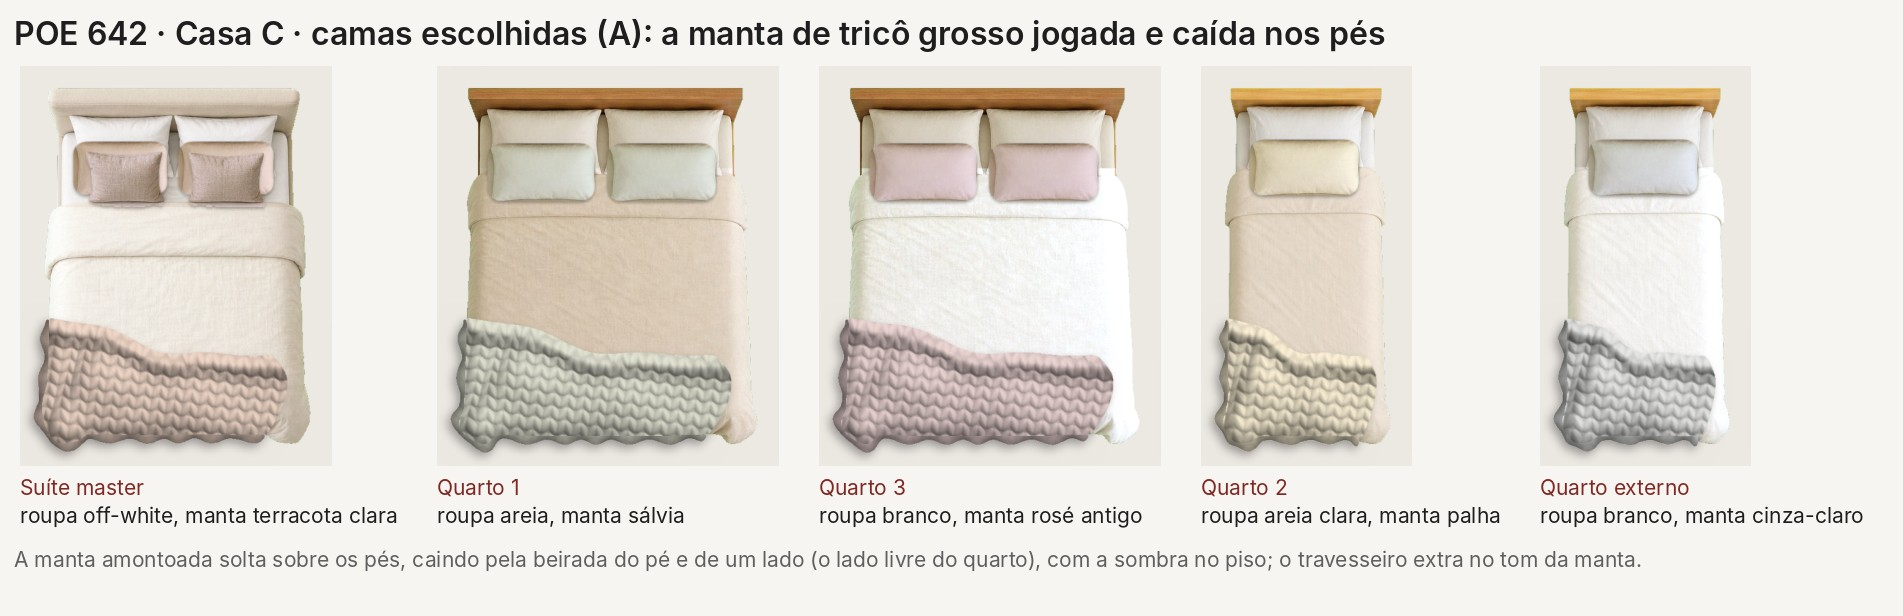
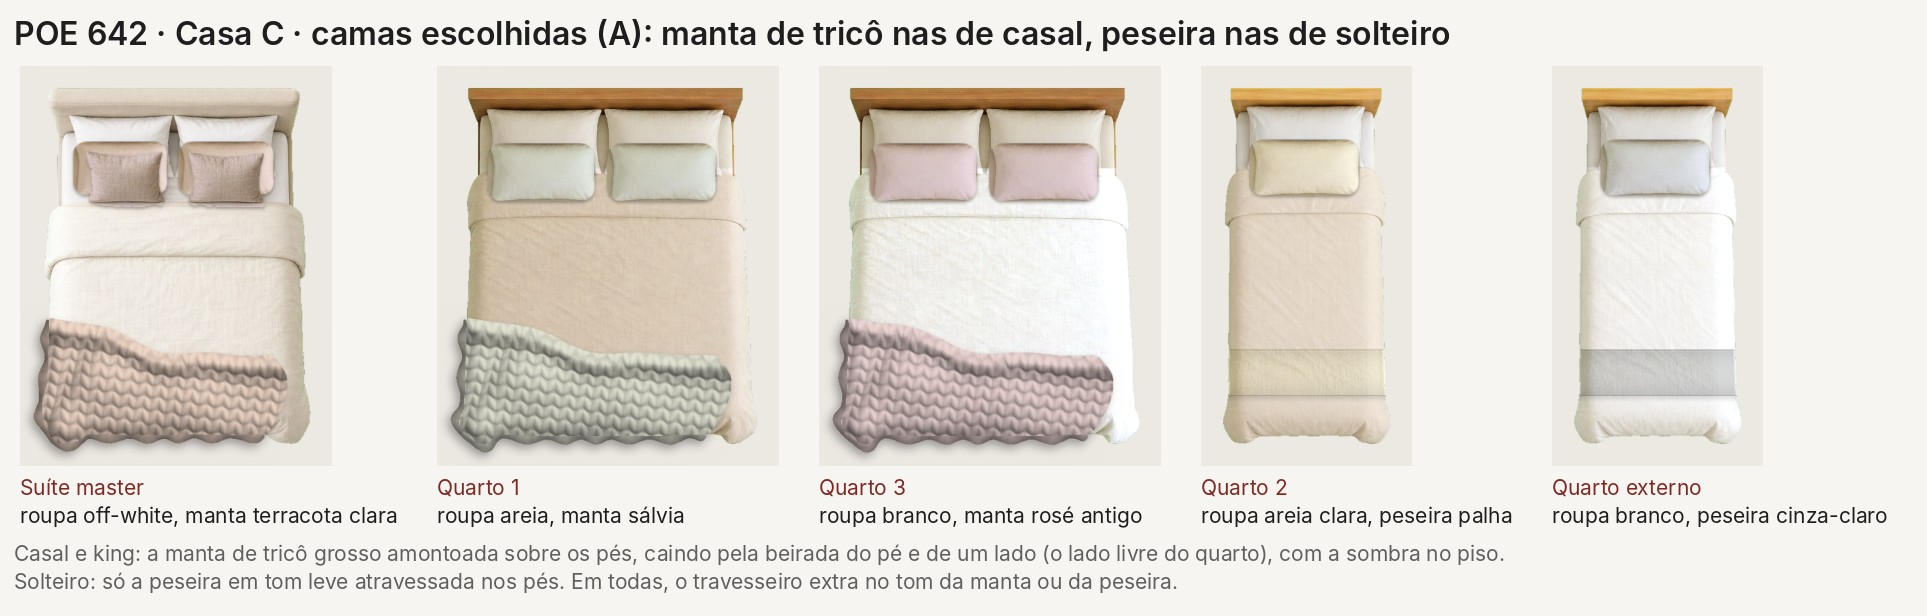
Casa C: a manta de tricô só nas camas de casal; nas de solteiro, só a peseira
- king e casal com a manta caída; solteiro com a peseira leve (palha, cinza-claro) e o travesseiro extra no mesmo tom
- handoff

Claude-Session: https://claude.ai/code/session_01Mm19WX3KoLN1nXMDF5Ay3F

diff --git a/projetos/POE642_CasaA/scripts/camas_escolhidas_casac_1311.py b/projetos/POE642_CasaA/scripts/camas_escolhidas_casac_1311.py
@@ -1,4 +1,6 @@
-"""A prancha das camas escolhidas (A) da Casa C com a manta de tricô grosso jogada e caída nos pés (13/11)."""
+"""A prancha das camas escolhidas (A) da Casa C (13/11): a manta de tricô grosso jogada e caída nos pés só nas camas de
+casal e na king; nas de solteiro, só a peseira leve ("Só use as mantas de tricô nas camas de casal. Nas camas de solteiro
+só pezeira"). Todas voltam com a mesma margem `pad` nos 4 lados (o centro não muda), para a prancha sair na mesma escala."""
 import sys
 sys.path.insert(0, str(__import__('pathlib').Path(__file__).parent))
 import camas_casac_1311 as C, manta_caida_casac_1311 as MC
@@ -10,24 +12,33 @@ ALT = 400
 ims = []
 for nome, tipo, roupa, opcoes in C.QUARTOS:
     enf = opcoes[0][0]
-    P = C.cama(tipo, roupa, enf, "nada")
-    Q, pad = MC.manta_caida(P, enf, "esq")
-    cv2.imwrite(str(C.TMP) + f'/caida_{tipo}_{roupa}_{enf}_pad{pad}.png'.replace(' ', '-'), Q.astype(np.uint8))
-    ims.append((C.foto(Q, int(ALT * Q.shape[0] / P.shape[0] + 0.5) if False else ALT, fundo=(236, 232, 226)), nome.split(' · ')[0], f'roupa {roupa}, manta {enf}'))
+    if tipo == "solteiro":
+        P = C.cama(tipo, roupa, enf, "peseira")
+        pad = int(round(MC.PAD * P.shape[0]))
+        Q = np.pad(P, ((pad, pad), (pad, pad), (0, 0)))
+        cap = f'roupa {roupa}, peseira {enf}'
+    else:
+        P = C.cama(tipo, roupa, enf, "nada")
+        Q, pad = MC.manta_caida(P, enf, "esq")
+        cap = f'roupa {roupa}, manta {enf}'
+    cv2.imwrite(str(C.TMP) + f'/escolhida_{tipo}_{roupa}_{enf}_pad{pad}.png'.replace(' ', '-'), Q.astype(np.uint8))
+    ims.append((C.foto(Q, ALT, fundo=(236, 232, 226)), nome.split(' · ')[0], cap))
 d0 = ImageDraw.Draw(Image.new('RGB', (10, 10)))
 larg = [max(im.width, int(d0.textlength(c, font=f_cap))) + 40 for im, _, c in ims]
 W = max(sum(larg) + 20, 1500)
 folha = Image.new('RGB', (W, 66 + ALT + 150), (247, 245, 242))
 d = ImageDraw.Draw(folha)
-d.text((14, 14), 'POE 642 · Casa C · camas escolhidas (A): a manta de tricô grosso jogada e caída nos pés', font=f_tit, fill=(30, 30, 30))
+d.text((14, 14), 'POE 642 · Casa C · camas escolhidas (A): manta de tricô nas de casal, peseira nas de solteiro', font=f_tit, fill=(30, 30, 30))
 x = 20
 for (im, q, cap), lg in zip(ims, larg):
     folha.paste(im, (x, 66))
     d.text((x, 66 + ALT + 8), q, font=f_cap, fill=(128, 40, 36))
     d.text((x, 66 + ALT + 36), cap, font=f_cap, fill=(30, 30, 30))
     x += lg
-d.text((14, 66 + ALT + 80), 'A manta amontoada solta sobre os pés, caindo pela beirada do pé e de um lado (o lado livre do quarto), '
-       'com a sombra no piso; o travesseiro extra no tom da manta.', font=f_cap, fill=(95, 95, 95))
+for j, l in enumerate(['Casal e king: a manta de tricô grosso amontoada sobre os pés, caindo pela beirada do pé e de um lado (o lado livre '
+                       'do quarto), com a sombra no piso.', 'Solteiro: só a peseira em tom leve atravessada nos pés. Em todas, o '
+                       'travesseiro extra no tom da manta ou da peseira.']):
+    d.text((14, 66 + ALT + 74 + 28 * j), l, font=f_cap, fill=(95, 95, 95))
 arq = C.OUT / 'POE642_CasaC_PH_Terreo_1311_camas_escolhidas.jpg'
 folha.save(arq, quality=90)
 print(arq, folha.size)

diff --git a/projetos/POE642_HANDOFF_SESSAO_LOCAL.md b/projetos/POE642_HANDOFF_SESSAO_LOCAL.md
@@ -4393,4 +4393,4 @@ Depois (12/11, Casa A, Subsolo: "NA HORA DE GERAR O 4K, PRECISO QUE TRAGA REALIS
 
 Depois (12/11, Casa A, Subsolo, recortes do 12K B: a linha clara sob a parede do hall; "OS X PRECISAM SER EM CINZA COM TRAÇOS MAIS FINOS E DELICADOS. ALÉM DISSO, LIMPE RESÍDUOS DE SUJEIRA"; "DEIXAR O CONTORNO EM VOLTA DOS VASOS PERFEITOS."; "DEIXAR AS PAREDES RETAS"): no `biblioteca_subsolo_casaa_1211.py`, `paredes_retas` (paredes da própria final sem dentes, entalhes e linhas soltas; a aresta contínua), `sujeira` (as manchas junto à parede da academia), os shafts com o miolo branco e o X do PDF em cinza 128 de 0,8 px (desenhado de novo na escala da A3 e do 12K pelo `ampliacao_a3_casaa`) e o piso de verdade em volta das bacias (`sob_peca` com `fonte`, `costura`; na ampliação, `rampa_vasos`). A3 4K e 12K A e B refeitos (a mesma IA 29e35837, corrigida de novo; Topaz 67888e24-f5a8-4f88-a21c-ae0d174feaff); pranchas A e B, PDF da Casa A e book refeitos. Regras novas no `POE642_REGRAS.md` (seção 8: louça trocada sem caixa; paredes retas; seção 9: o X dos shafts em cinza fino, no lugar do preto de 29/10). Detalhes no README dos scripts da Casa A ("Os defeitos do Subsolo de 12/11"). Pendente, com o OK: levar o X cinza fino, as paredes retas e o contorno das louças ao Térreo e ao 1º Pavimento da Casa A e às outras casas.
 
-Depois (12/11, "PODE APLICAR NO TÉRREO E 1º PAVIMENTO DA CASA A"): `POE642_CasaA/scripts/regras_1211_casaa.py` leva as três regras ao Térreo e ao 1º Pavimento: os shafts com o vão claro e o X em cinza 128 de 0,8 px (1 no Térreo, 4 no 1º Pavimento); as paredes retas com o cinza de cada pavimento (53 no Térreo), protegendo o que o PDF desenha e não é parede e o branco de dentro; o ponto claro na beira e a mancha cinza no miolo do vaso do lavabo do Térreo; a borda de parede em volta dos vãos limpa. Finais, pranchas, PDF da Casa A e book refeitos; o 12K A e B dos dois pavimentos sem IA nova (a entrada com o que mudou; Térreo: a corrigida remendada; 1º Pavimento: a saída 09c2bb19 corrigida de novo; Topaz 3272a7a5 e 24b977d2; `montar12k` desenha os shafts no 12K e refaz o vaso do lavabo do Térreo com a final ampliada, de contorno liso, porque a IA o tinha borrado). Antes e depois em `renders/POE642_CasaA_PH_{Terreo,1Pavimento}_1211_*_antes_depois.jpg`. Pendente, com o OK: as mesmas regras nas Casas B a E. Ainda em 12/11 ("Na claraboia não precisa do X, apenas os traços na horizontal"): a claraboia do lavabo do Térreo da Casa A sem o X, só com o tracejado horizontal (`regras_1211_casaa.claraboia`; final, prancha, PDF, book e 12K A e B). Em seguida: a proposta de troca dos objetos do Térreo da Casa A pela biblioteca (só a proposta, para o OK): `POE642_CasaA/renders/POE642_CasaA_PH_Terreo_1211_proposta_biblioteca_{1,2,3}.jpg` (14 ambientes; a planta de hoje ao lado das peças recomendadas; o pacote da biblioteca vem do Drive, `POE642-Casa-A-Biblioteca-Claude-Code.zip`, fora do git). Nada instalado até o OK. Com o "OK": as peças instaladas nos ambientes do Térreo da Casa A (`POE642_CasaA/scripts/biblioteca_terreo_casaa_1211.py`; estar da varanda, sala de estar, estar sob a projeção, mesas redondas, jantar, escritório, gourmet e cozinha, lounge dos brises, piscina, banhos e lavabo); "NÃO ALTERE OS CARROS. DEXE COMO ESTAR." (a garagem como estava); os vasos sanitários marrons; vendo a instalação, "PRECISA DIMINUIR O TAMANHO DA CHURRASQUEIRA PARA CABER NA BANCADA SEM FICAR POR CIMA DA PAREDE." e "AS BANQUETAS FICAM PARCIALMENTE POR DEBAIXO DA BANCADA, NÃO SOBRE ELAS." (aplicados). Final, antes e depois `renders/POE642_CasaA_PH_Terreo_1211b_<ambiente>_antes_depois.jpg`, prancha, PDF da Casa A, book e 12K A e B (sem IA nova: `pecas_12k` no `montar12k`) refeitos; no git, as 41 peças usadas de `biblioteca-objetos/02-terreo`. A confirmar com o usuário: duas cubas inox simples na pia da cozinha (no lugar da cuba dupla), a cuba compacta só a louça, os cooktops de 4 bocas. Depois, ainda em 12/11, vendo a planta (pedidos com recortes, aplicados direto; `POE642_CasaA/scripts/pedidos_terreo_casaa_1211c.py`, `bege_pergolado_casaa_1211.py` e o `biblioteca_terreo_casaa_1211.py`): o sofá da sala menor e girado no contorno do PDF ("DIMUNUIR O TAMANHO DO SOFÁ"; "TALVEZ ROTACIONANDO O SOFÁ, RESOLVA"); o Bege Bahia sob o pergolado no tom e no desenho do deck ("PRECISAMOS MELHORAR O ASPECTO DO MARMORE BEGE BAHIA NESSA REGIÃO"); sem as marquinhas entre os brises ("REMOVA ESSES RISCOS PRETOS ENTE OS BRISES"); a folha da porta do banho varanda nítida ("CORRIJA ESSA PORTA."); a borda do deck e da escada para o Subsolo reta ("CORRIJA ESSE CONTORNO DO DECK E ESCADAS"); o JARDIM no corpo 0,9 dentro da floreira ("DIMINUA A FONTE PARA CABER NO VÃO, SEM ENCOSTAR NAS BORDAS."); o CLARABOIA dentro da claraboia, menor ("ESCREVA O RÓTULO DA CLARABOIA DENTRO DO ESPAÇO DESTINADO PARA CLARABOIA..."); a bancada do lavabo no tom da cuba esculpida ("A BANCADA É NO MESMO TOM DA CUBA ESCULPIDA. CORRIJA"); a bacia Carrara da biblioteca em marrom no lugar do bloco chapado do lavabo ("MELHORE A REPRESENTAÇÃO DESSE VASO"). Em seguida: o SOBE PARA O 1º PAVIMENTO da caracol acima dela ("COLOCA ESSE RÓTULO ACIMA DA ESCADA"); o GARAGEM à direita, no vão entre o carro do meio e o da direita ("COLOCA ESSE RÓTULO MAIS PARA DIREITA OU DIMINUA O TAMANHO DA FONTE"); o guarda-corpo de vidro da borda do deck redesenhado ("CORRIJA ESSE GUARDA CORPO"); a soleira do vão da direita da janela de canto do escritório ("FALTOU A SOLEIRA DE UM DOS LADOS DA JANELA"). Depois: a folha do box do B. MOTORISTA reta, de parede a parede ("DEIXE RETO A FOLHA DO BOX. ESTÁ MUITO TORTO"). E o S/D logo abaixo da seta das quatro escadas ("ADICIONE AS ESCADAS O "S" OU "D" DE SUBIR OU DESCER, LOGO ABAIXO DA SETA"): D nos degraus para o deck e na escada para o Subsolo, S na escada do jardim e na caracol. Depois ("APLIQUE O S E D NO SUBSOLO E 1º PAVIMENTO", `POE642_CasaA/scripts/letras_escadas_casaa_1211.py`): o S sob a seta da escada do Subsolo (final A e manuscrita B, pranchas A e B, A3 4K, 12K A e B) e o D sob as setas da escada em U e da caracol do 1º Pavimento (final, prancha, 12K A e B), sem IA nova (as saídas do Topaz 67888e24 e 24b977d2 baixadas de novo, fora do git). Pendente, com o OK: o S/D nas outras casas. Depois ("Vamos revisar os mobiliários do 1° pavimento da casa A"): a proposta de troca dos objetos do 1º Pavimento da Casa A pela biblioteca (`biblioteca-objetos/03-primeiro-pavimento`, só a proposta, para o OK): `POE642_CasaA/renders/POE642_CasaA_PH_1Pavimento_1211_proposta_biblioteca_{1,2,3}.jpg` (10 blocos: sala íntima, suítes master, 1, 2 e 3, quarto de serviço, banho master, banhos 1 a 3, banho de serviço e closets; a planta de hoje ao lado das peças, com as variantes A/B e as recomendadas marcadas). Nada instalado até o OK. Com o "OK, pode aplicar as recomendadas": as peças instaladas (`POE642_CasaA/scripts/biblioteca_1pav_casaa_1211.py`): sala íntima, suítes master, 1, 2 e 3, quarto de serviço, banho master, banhos 1 a 3 e banho de serviço; as camas da biblioteca (creme) no lugar das de manta bordô; os vasos brancos (Carrara); os closets como estavam. O piso por baixo das peças antigas sai do próprio gerador do vinílico e do travertino (as réguas continuam). Final, antes e depois `renders/POE642_CasaA_PH_1Pavimento_1211b_<ambiente>_antes_depois.jpg`, prancha, PDF da Casa A, book e 12K A e B (sem IA nova) refeitos; no git, a pasta `biblioteca-objetos/03-primeiro-pavimento`. Depois ("Revisão de poltronas e rotação necessária"): a frente de cada poltrona conferida com o símbolo do PDF nos dois pavimentos; giradas a da sala íntima e a da suíte master do 1º Pavimento (a -150°, para a mesa de centro e para o pufe) e a creme da sala de estar do Térreo (a -56°); as outras estavam certas. Finais, 12K A e B, pranchas, PDF da Casa A e book refeitos; antes e depois em `renders/POE642_CasaA_PH_{Terreo,1Pavimento}_1211_poltronas_antes_depois.jpg`. E ("Tem mesa redonda sobre o sofá, em vez de estar ao redor"): as duas mesas laterais da sala íntima, que caíam sobre o sofá da biblioteca (mais fundo que o do PDF), ao lado dele: à esquerda da chaise e por fora do braço. Depois ("Melhore a representação dos criados das suítes"): os criados das suítes master, 1, 2 e 3 no tom da madeira das bancadas (antes sumiam no vinílico), os redondos em círculo, com a sombra de volume e um abajur visto de cima em cada um; final, 12K A e B, prancha, PDF da Casa A e book refeitos; antes e depois em `renders/POE642_CasaA_PH_1Pavimento_1211_criados_antes_depois.jpg`. Depois ("NÃO TEMOS NA BIBLIOTECA OS BANCOS QUE FICAM NA FRENTE DAS CAMAS?"; "GERE UM BANCO NOVO NO HIGGSFIELD"): o banco de pé de cama gerado no Higgsfield (gpt_image_2, 4 variantes; escolhida a d25a4b71: duas almofadas de linho cru numa moldura fina de carvalho) e posto na biblioteca (`03-primeiro-pavimento/suite-master/banco-pe-de-cama.png` e a versão de solteiro em `suite-1/`), no retângulo do PDF aos pés das camas das suítes master, 1 (um em cada cama de solteiro), 2 e 3. E a floreira do banho master ("VAMOS ALTERAR ESSA VEGETAÇÃO MAIS ALTA POR" + a foto): no lugar dos cactos, espadas-de-são-jorge de borda amarela e duas folhagens altas de folha larga na mesma caixa (Higgsfield, 4 variantes; escolhida a 9f219839; `03-primeiro-pavimento/banho-master/floreira-espada-de-sao-jorge-e-folhagem.png`), a caixa no lugar exato da antiga e as folhas sem passar o vidro do banho. Final, 12K A e B, prancha, PDF da Casa A e book refeitos; antes e depois em `renders/POE642_CasaA_PH_1Pavimento_1211_bancos_floreira_antes_depois.jpg`. Depois ("OS CHUVEIROS PRECISAM SER REFEITOS. ESTÃO MUITO APAGADOS"): os chuveiros desenhados vistos de cima (`POE642_CasaA/scripts/chuveiros_planta_casaa_1211.py`; inox médio com chanfro, contorno, crivo e sombra; o redondo do banho de serviço em círculo) e o piso refeito no tom do entorno (o quadrado claro em volta dos chuveiros sumiu). "CORRIGIR O TAPETE NA SUITE 2": o tapete do render (beira dobrada, degraus e, no 12K, retalhos) sai inteiro e entra o da biblioteca no tom de antes, no retângulo do PDF. "CORRIJA AS FOLHAS DE VIDRO PARA SE ENCONTRAREM, CORRIJA O CONTORNO DA FLOREIRA E NÃO DEIXE AS PLANTAS VERDES PASSAREM PELAS JANELAS": a floreira no retângulo do PDF entre as janelas, com as plantas dentro da caixa (`floreira_caixa_casaa_1211.py`, a caixa comprida pelo miolo sem achatar as plantas), e a janela do banho redesenhada pelo PDF (três folhas de correr escalonadas que se encontram nos montantes); depois ("PODE APLICAR UMA SOLEIRA PARA AS JANELAS A DIREITA DA FLOREIRA. O TOM DE PAREDE NÃO PODE SER"), o vão dessa janela com a soleira das portas do 1º Pavimento (Bege Bahia, faces em cinza fino), sem o cinza de parede (`renders/POE642_CasaA_PH_1Pavimento_1211_soleira_janela_floreira_antes_depois.jpg`). E "PODE APLICAR NOS TAPETES DAS SUÍTES 1 E 3": os tapetes das suítes 1 e 3 refeitos inteiros como o da suíte 2 (`renders/POE642_CasaA_PH_1Pavimento_1211_tapetes_suites_1_3_antes_depois.jpg`). Casa B, Subsolo (13/11, "COLOQUE O S ABAIXO DA SETA"): o S sob a seta da escada que sobe para o jardim, como no Subsolo da Casa A (`pedidos_subsolo_casab_1211.letra_sb`; no 12K, A na Inter e B na Kalam, sobre a saída do Topaz ecd1a9e8 baixada de novo); final, 12K A e B, prancha, PDF da Casa B e book refeitos (`POE642_CasaB/renders/POE642_CasaB_PH_Subsolo_1311_letra_escada_antes_depois.jpg`). Depois ("VAMOS REVISAR OS MOBILIÁRIOS DO SUBSOLO DA CASA B"): a proposta de troca pela biblioteca (só a proposta, para o OK): `POE642_CasaB/renders/POE642_CasaB_PH_Subsolo_1311_proposta_biblioteca_{1,2}.jpg` (sauna: banco reto travertino; BH sauna: cuba esculpida travertino, bacia Carrara branca ou marrom, chuveiro quadrado de parede desenhado; ducha do deck: chuveiro quadrado de parede; BH serviço: cuba de serviço no granito, bacia Monte Carlo, chuveiro redondo de parede; academia sem troca, os aparelhos já são os da Casa A). Com o "OK, PODE APLICAR AS RECOMENDADAS": instaladas (`POE642_CasaA/scripts/biblioteca_subsolo_casab_1311.py`): os bancos retos de travertino na sauna, a cuba esculpida no granito e a bacia Carrara branca no BH sauna, a bancada e a cuba de serviço e a bacia Monte Carlo no BH serviço, os chuveiros desenhados (quadrado na ducha do deck e ao lado da sauna, redondo ao lado do BH serviço); no 12K, as peças entram pela final ampliada e nítidas do PNG (`pecas_12k`). Final, 12K A e B, prancha, PDF da Casa B e book refeitos; antes e depois em `POE642_CasaB/renders/POE642_CasaB_PH_Subsolo_1311_<trecho>_antes_depois.jpg`. Depois ("ALINHE OS RÓTULOS", as duas fileiras): os rótulos de cada fileira com o meio na mesma linha (GARAGEM, BH SERVIÇO e DEPÓSITO em y 393; DUCHA, SAUNA, CIRCULAÇÃO, BH SAUNA e ACADEMIA em y 675; a CIRCULAÇÃO de cima, acima do vidro, não cabe na linha do BH SERVIÇO e fica no espaço dela); refeito desde a final de 21fa118 com a biblioteca de novo por cima (`POE642_CasaB/renders/POE642_CasaB_PH_Subsolo_1311_rotulos_alinhados_antes_depois.jpg`). E "CORRIJA O PISO AO INCLUIR NOVO CHUVEIRO": na ducha do deck, o chuveiro antigo não é mais desenhado no passo do deck e o novo entra direto sobre o deck do gerador (as réguas contínuas, sem o remendo copiado do lado) (`POE642_CasaB/renders/POE642_CasaB_PH_Subsolo_1311_deck_chuveiro_antes_depois.jpg`). E ("VOCÊ TROCOU AS BICICLETAS E ESTEIRAS?", "E O SUPINO? QUERO QUE TROQUE, MANTENDO A BOLA"): os aparelhos da academia eram os copiados da final da Casa A de 12/11, ainda os do render; trocados pelos da biblioteca no tamanho da Casa A (2 esteiras `esteira-a`, 1,76 x 0,77 m; 2 bicicletas `bicicleta-b`, 1,23 x 0,51 m; supino `banco-supino`, 1,60 x 2,04 m, espelhado com a barra à direita, como no PDF), cada um no meio do símbolo do PDF da Casa B, o vinílico refeito com as mesmas réguas por baixo dos antigos; a bola, o armário e o rótulo ACADEMIA sem mudar (`biblioteca_subsolo_casab_1311.academia`; `POE642_CasaB/renders/POE642_CasaB_PH_Subsolo_1311_academia_antes_depois.jpg`; final, 12K A e B, prancha, PDF da Casa B e book refeitos). Casa B, Térreo (13/11, "VAMOS REVISAR OS MOBILIÁRIOS DO TÉRREO DA CASA B E REALIZAR AS ALTERAÇÕES FEITAS NA CASA A LISTADAS ACIMA"): a proposta do mobiliário (`POE642_CasaB/renders/POE642_CasaB_PH_Terreo_1311_proposta_biblioteca_{1,2,3}.jpg`; as camas de 12/11 ficam, a pedido, com os tapetes refeitos e o contorno retocado); as regras da Casa A aplicadas (`POE642_CasaA/scripts/regras_terreo_casab_1311.py`): o D sob as setas das 3 escadas, os 2 shafts com o X cinza fino, os 10 chuveiros desenhados em planta, as paredes retas; final, 12K A e B (sem IA nova), prancha, PDF da Casa B e book refeitos. Pendentes: as esquadrias pretas (prévia antes, por causa dos brises de bronze das suítes), os tapetes e o contorno das camas, e as peças geradas no Higgsfield (geladeira, recamier com mais glamour, banco estofado do closet, cortina), à espera da escolha (`POE642_CasaB/renders/POE642_CasaB_PH_Terreo_1311_pecas_higgsfield.jpg`). Depois (13/11, no mesmo `regras_terreo_casab_1311.py`): as esquadrias pretas só no contorno ("FAÇA APENAS O CONTORNO DA ESQUADRIA EM PRETO"), os tapetes das suítes refeitos com o contorno das camas limpo, as peças do Higgsfield escolhidas ("G2, R7, B1, C4"; o recamier trocado pelo R11, na medida do original), o jardim de inverno com um X só e as folhas de baixo encostadas, os rótulos SUÍTE 1/2 e CIRCULAÇÃO/SUÍTE 3 em grade. Depois, as 15 decisões do mobiliário, uma a uma, instaladas com as peças e as convenções da Casa A (`MOBILIARIO_TB`, `mobiliario`): criados com abajur nas 4 suítes, bancada dupla esculpida e bacias Carrara no banho master, cuba esculpida de travertino e bacia Carrara nos banhos 1 a 3, cuba esculpida de poros e bacia marrom no lavabo, bacias marrons e cubas esculpidas no lavatório gourmet, só a louça da cuba e a bacia Monte Carlo nos BH serviço e motorista ("A BANCADA DO BH. MOTORISTA É MARROM TABACO"), cooktops de 4 bocas (o resto do de 5 vira bancada), cubas e tanques Franke, a cuba com misturador e a grelha da gourmet; e a cadeira de escritório nas 3 escrivaninhas ("FALTOU A CADEIRA DE ESCRITORIO NAS ESCRIVANINHAS"), 1/3 por baixo da mesa. Corrigido junto: na final entregue em ca1ed82 os 4 rótulos em grade saíram em dobro (a 2ª rodada lia os desvios já movidos e não tirava o de antes); agora o desvio de partida vem dos dados do `ANTES_COMMIT`. Depois, a 2ª etapa ("PODE FAZER A 2ª ETAPA"): a sala íntima com o conjunto da Casa A (tapete, sofá em L A, mesas laterais redondas, poltrona A; a mesa de centro e a quadrada ficam; o PDF tem uma poltrona só, a proposta dizia 2), as 10 cadeiras oliva no jantar (a mesa e o aparador ficam), as espreguiçadeiras A na prainha e as 5 banquetas B na bancada gourmet (o PDF desenha 4; ficaram as 5 de hoje), com o piso refeito por baixo das peças de antes. Depois ("PÕE UM BANCO ESTOFADO, COMO SE FOSSE UM PUFF NA FRENTE DA POLTRONA"): o retângulo do PDF na frente da poltrona, que o render fez de mesa de madeira, virou o pufe estofado da Casa A. E ("TROQUE O TOM DA MESA DE CENTRO PARA UM TOM QUENTE"): a mesa de centro no caramelo da madeira das bancadas, com o veio. Casa C (13/11, "Vamos para biblioteca da casa C"): a proposta de troca pela biblioteca, só a proposta, para o OK (`POE642_CasaC/renders/POE642_CasaC_PH_Subsolo_1311_proposta_biblioteca_1.jpg` e `POE642_CasaC_PH_Terreo_1311_proposta_biblioteca_{1,2,3}.jpg`): sauna, BH academia e academia no Subsolo; no Térreo, suítes e banhos, sala TV, estar, jantar, varanda gourmet e sala de almoço, escritório, gourmet e cozinha, serviço, quarto externo e lavabos, com as escolhas da Casa A e as decisões da Casa B marcadas; as camas ficam para decidir (a da Casa A, o modelo da Casa B ou como estão); depois ("Adicione a cortina"), a seção das cortinas: a de linho em ondas da Casa B (C4) no lugar das franzidas, em todas as janelas com trilho no PDF. Camas ("Vamos de camas da casa A com variações de tom de roupa de cama e pezeiras"): as da biblioteca da Casa A (king A, casal A, solteiro A), cada quarto com um tom de roupa de cama e uma peseira atravessada nos pés, 2 opções por quarto (`POE642_CasaC/renders/POE642_CasaC_PH_Terreo_1311_proposta_camas.jpg`; a roupa tingida pela mediana, com a trama e a luz do PNG; a peseira com a trama mais marcada, a barra e a sombra curta; na master, as almofadas no tom da peseira); depois ("Acrescenta travesseiro extra"; "Mantém tom leve na peneira ou colcha decorativa"): o travesseiro extra na frente (o limpo da cama de casal A, no tom do enfeite) e, por quarto, A com a peseira em tom leve ou B com a colcha decorativa matelassê da metade para os pés. O usuário: "Escolha A" (a peseira leve nos 5 quartos), "Ok" (a proposta toda, com as cortinas) e "A manta seria posta em v" e, com a foto de referência, "Assim": a manta de tricô grosso dobrada em triângulo, a dobra atravessando a cama e a ponta para os pés, no tom leve de cada quarto (`POE642_CasaC/renders/POE642_CasaC_PH_Terreo_1311_camas_escolhidas.jpg`). Depois (com outra foto de referência, "Não ficou bom a manta assim não. Ela fica caída"): a manta jogada, amontoada solta sobre os pés, com as dobras e a borda de cima enrolada, caindo pela beirada do pé e de um lado (em planta, a faixa estreita além do colchão com as ondas das pregas) e a sombra no piso, no mesmo tom leve de cada quarto; os pontos do tricô do mesmo tamanho nas camas king, casal e solteiro (`POE642_CasaA/scripts/manta_caida_casac_1311.py`, com `camas_casac_1311.py` e `camas_escolhidas_casac_1311.py`). O PNG da cama volta com a margem `pad` igual nos 4 lados (o centro não muda; na instalação, a medida da cama é o PNG menos 2 x pad); a queda vai para o lado livre do quarto. Falta, para instalar: os PDFs da Casa C (Subsolo e Térreo), que não estão no repositório; o conector do Drive estava fora do ar. E ("ESPREGUIÇADEIRA DE MADEIRA DENTRO DA ÁGUA, DA PRAINHA. NÃO SEI SE FAZ MUITO SENTIDO"): o usuário escolheu gerar no Higgsfield uma espreguiçadeira de resina/polietileno própria para a água (4 variantes, para escolher); até lá a prainha fica com a de madeira. Com o Higgsfield de volta (13/11, 14:45), as 4 variantes geradas (gpt_image_2, 21:9, 2k; jobs 10b91395, fe5291b8, 8afe6533, 2e2ef5cd; as saídas fora do git) e a folha para a escolha em `POE642_CasaB/renders/POE642_CasaB_PH_Terreo_1311_espreguicadeira_resina_variantes.jpg` (E1 a E4); na instalação, a escolhida no comprimento do retângulo do PDF, sem deformar. Final, 12K A e B, prancha, PDF da Casa A e book refeitos; antes e depois em `renders/POE642_CasaA_PH_1Pavimento_1211_{chuveiros,tapete_suite_2,floreira_janela}_antes_depois.jpg`. Final, 12K A e B (sem IA nova), prancha, PDF da Casa A e book refeitos; antes e depois (contra a final de 2c1c21d) em `renders/POE642_CasaA_PH_Terreo_1211c_<pedido>_antes_depois.jpg`. Regras novas no `POE642_REGRAS.md` (seção 8).
+Depois (12/11, "PODE APLICAR NO TÉRREO E 1º PAVIMENTO DA CASA A"): `POE642_CasaA/scripts/regras_1211_casaa.py` leva as três regras ao Térreo e ao 1º Pavimento: os shafts com o vão claro e o X em cinza 128 de 0,8 px (1 no Térreo, 4 no 1º Pavimento); as paredes retas com o cinza de cada pavimento (53 no Térreo), protegendo o que o PDF desenha e não é parede e o branco de dentro; o ponto claro na beira e a mancha cinza no miolo do vaso do lavabo do Térreo; a borda de parede em volta dos vãos limpa. Finais, pranchas, PDF da Casa A e book refeitos; o 12K A e B dos dois pavimentos sem IA nova (a entrada com o que mudou; Térreo: a corrigida remendada; 1º Pavimento: a saída 09c2bb19 corrigida de novo; Topaz 3272a7a5 e 24b977d2; `montar12k` desenha os shafts no 12K e refaz o vaso do lavabo do Térreo com a final ampliada, de contorno liso, porque a IA o tinha borrado). Antes e depois em `renders/POE642_CasaA_PH_{Terreo,1Pavimento}_1211_*_antes_depois.jpg`. Pendente, com o OK: as mesmas regras nas Casas B a E. Ainda em 12/11 ("Na claraboia não precisa do X, apenas os traços na horizontal"): a claraboia do lavabo do Térreo da Casa A sem o X, só com o tracejado horizontal (`regras_1211_casaa.claraboia`; final, prancha, PDF, book e 12K A e B). Em seguida: a proposta de troca dos objetos do Térreo da Casa A pela biblioteca (só a proposta, para o OK): `POE642_CasaA/renders/POE642_CasaA_PH_Terreo_1211_proposta_biblioteca_{1,2,3}.jpg` (14 ambientes; a planta de hoje ao lado das peças recomendadas; o pacote da biblioteca vem do Drive, `POE642-Casa-A-Biblioteca-Claude-Code.zip`, fora do git). Nada instalado até o OK. Com o "OK": as peças instaladas nos ambientes do Térreo da Casa A (`POE642_CasaA/scripts/biblioteca_terreo_casaa_1211.py`; estar da varanda, sala de estar, estar sob a projeção, mesas redondas, jantar, escritório, gourmet e cozinha, lounge dos brises, piscina, banhos e lavabo); "NÃO ALTERE OS CARROS. DEXE COMO ESTAR." (a garagem como estava); os vasos sanitários marrons; vendo a instalação, "PRECISA DIMINUIR O TAMANHO DA CHURRASQUEIRA PARA CABER NA BANCADA SEM FICAR POR CIMA DA PAREDE." e "AS BANQUETAS FICAM PARCIALMENTE POR DEBAIXO DA BANCADA, NÃO SOBRE ELAS." (aplicados). Final, antes e depois `renders/POE642_CasaA_PH_Terreo_1211b_<ambiente>_antes_depois.jpg`, prancha, PDF da Casa A, book e 12K A e B (sem IA nova: `pecas_12k` no `montar12k`) refeitos; no git, as 41 peças usadas de `biblioteca-objetos/02-terreo`. A confirmar com o usuário: duas cubas inox simples na pia da cozinha (no lugar da cuba dupla), a cuba compacta só a louça, os cooktops de 4 bocas. Depois, ainda em 12/11, vendo a planta (pedidos com recortes, aplicados direto; `POE642_CasaA/scripts/pedidos_terreo_casaa_1211c.py`, `bege_pergolado_casaa_1211.py` e o `biblioteca_terreo_casaa_1211.py`): o sofá da sala menor e girado no contorno do PDF ("DIMUNUIR O TAMANHO DO SOFÁ"; "TALVEZ ROTACIONANDO O SOFÁ, RESOLVA"); o Bege Bahia sob o pergolado no tom e no desenho do deck ("PRECISAMOS MELHORAR O ASPECTO DO MARMORE BEGE BAHIA NESSA REGIÃO"); sem as marquinhas entre os brises ("REMOVA ESSES RISCOS PRETOS ENTE OS BRISES"); a folha da porta do banho varanda nítida ("CORRIJA ESSA PORTA."); a borda do deck e da escada para o Subsolo reta ("CORRIJA ESSE CONTORNO DO DECK E ESCADAS"); o JARDIM no corpo 0,9 dentro da floreira ("DIMINUA A FONTE PARA CABER NO VÃO, SEM ENCOSTAR NAS BORDAS."); o CLARABOIA dentro da claraboia, menor ("ESCREVA O RÓTULO DA CLARABOIA DENTRO DO ESPAÇO DESTINADO PARA CLARABOIA..."); a bancada do lavabo no tom da cuba esculpida ("A BANCADA É NO MESMO TOM DA CUBA ESCULPIDA. CORRIJA"); a bacia Carrara da biblioteca em marrom no lugar do bloco chapado do lavabo ("MELHORE A REPRESENTAÇÃO DESSE VASO"). Em seguida: o SOBE PARA O 1º PAVIMENTO da caracol acima dela ("COLOCA ESSE RÓTULO ACIMA DA ESCADA"); o GARAGEM à direita, no vão entre o carro do meio e o da direita ("COLOCA ESSE RÓTULO MAIS PARA DIREITA OU DIMINUA O TAMANHO DA FONTE"); o guarda-corpo de vidro da borda do deck redesenhado ("CORRIJA ESSE GUARDA CORPO"); a soleira do vão da direita da janela de canto do escritório ("FALTOU A SOLEIRA DE UM DOS LADOS DA JANELA"). Depois: a folha do box do B. MOTORISTA reta, de parede a parede ("DEIXE RETO A FOLHA DO BOX. ESTÁ MUITO TORTO"). E o S/D logo abaixo da seta das quatro escadas ("ADICIONE AS ESCADAS O "S" OU "D" DE SUBIR OU DESCER, LOGO ABAIXO DA SETA"): D nos degraus para o deck e na escada para o Subsolo, S na escada do jardim e na caracol. Depois ("APLIQUE O S E D NO SUBSOLO E 1º PAVIMENTO", `POE642_CasaA/scripts/letras_escadas_casaa_1211.py`): o S sob a seta da escada do Subsolo (final A e manuscrita B, pranchas A e B, A3 4K, 12K A e B) e o D sob as setas da escada em U e da caracol do 1º Pavimento (final, prancha, 12K A e B), sem IA nova (as saídas do Topaz 67888e24 e 24b977d2 baixadas de novo, fora do git). Pendente, com o OK: o S/D nas outras casas. Depois ("Vamos revisar os mobiliários do 1° pavimento da casa A"): a proposta de troca dos objetos do 1º Pavimento da Casa A pela biblioteca (`biblioteca-objetos/03-primeiro-pavimento`, só a proposta, para o OK): `POE642_CasaA/renders/POE642_CasaA_PH_1Pavimento_1211_proposta_biblioteca_{1,2,3}.jpg` (10 blocos: sala íntima, suítes master, 1, 2 e 3, quarto de serviço, banho master, banhos 1 a 3, banho de serviço e closets; a planta de hoje ao lado das peças, com as variantes A/B e as recomendadas marcadas). Nada instalado até o OK. Com o "OK, pode aplicar as recomendadas": as peças instaladas (`POE642_CasaA/scripts/biblioteca_1pav_casaa_1211.py`): sala íntima, suítes master, 1, 2 e 3, quarto de serviço, banho master, banhos 1 a 3 e banho de serviço; as camas da biblioteca (creme) no lugar das de manta bordô; os vasos brancos (Carrara); os closets como estavam. O piso por baixo das peças antigas sai do próprio gerador do vinílico e do travertino (as réguas continuam). Final, antes e depois `renders/POE642_CasaA_PH_1Pavimento_1211b_<ambiente>_antes_depois.jpg`, prancha, PDF da Casa A, book e 12K A e B (sem IA nova) refeitos; no git, a pasta `biblioteca-objetos/03-primeiro-pavimento`. Depois ("Revisão de poltronas e rotação necessária"): a frente de cada poltrona conferida com o símbolo do PDF nos dois pavimentos; giradas a da sala íntima e a da suíte master do 1º Pavimento (a -150°, para a mesa de centro e para o pufe) e a creme da sala de estar do Térreo (a -56°); as outras estavam certas. Finais, 12K A e B, pranchas, PDF da Casa A e book refeitos; antes e depois em `renders/POE642_CasaA_PH_{Terreo,1Pavimento}_1211_poltronas_antes_depois.jpg`. E ("Tem mesa redonda sobre o sofá, em vez de estar ao redor"): as duas mesas laterais da sala íntima, que caíam sobre o sofá da biblioteca (mais fundo que o do PDF), ao lado dele: à esquerda da chaise e por fora do braço. Depois ("Melhore a representação dos criados das suítes"): os criados das suítes master, 1, 2 e 3 no tom da madeira das bancadas (antes sumiam no vinílico), os redondos em círculo, com a sombra de volume e um abajur visto de cima em cada um; final, 12K A e B, prancha, PDF da Casa A e book refeitos; antes e depois em `renders/POE642_CasaA_PH_1Pavimento_1211_criados_antes_depois.jpg`. Depois ("NÃO TEMOS NA BIBLIOTECA OS BANCOS QUE FICAM NA FRENTE DAS CAMAS?"; "GERE UM BANCO NOVO NO HIGGSFIELD"): o banco de pé de cama gerado no Higgsfield (gpt_image_2, 4 variantes; escolhida a d25a4b71: duas almofadas de linho cru numa moldura fina de carvalho) e posto na biblioteca (`03-primeiro-pavimento/suite-master/banco-pe-de-cama.png` e a versão de solteiro em `suite-1/`), no retângulo do PDF aos pés das camas das suítes master, 1 (um em cada cama de solteiro), 2 e 3. E a floreira do banho master ("VAMOS ALTERAR ESSA VEGETAÇÃO MAIS ALTA POR" + a foto): no lugar dos cactos, espadas-de-são-jorge de borda amarela e duas folhagens altas de folha larga na mesma caixa (Higgsfield, 4 variantes; escolhida a 9f219839; `03-primeiro-pavimento/banho-master/floreira-espada-de-sao-jorge-e-folhagem.png`), a caixa no lugar exato da antiga e as folhas sem passar o vidro do banho. Final, 12K A e B, prancha, PDF da Casa A e book refeitos; antes e depois em `renders/POE642_CasaA_PH_1Pavimento_1211_bancos_floreira_antes_depois.jpg`. Depois ("OS CHUVEIROS PRECISAM SER REFEITOS. ESTÃO MUITO APAGADOS"): os chuveiros desenhados vistos de cima (`POE642_CasaA/scripts/chuveiros_planta_casaa_1211.py`; inox médio com chanfro, contorno, crivo e sombra; o redondo do banho de serviço em círculo) e o piso refeito no tom do entorno (o quadrado claro em volta dos chuveiros sumiu). "CORRIGIR O TAPETE NA SUITE 2": o tapete do render (beira dobrada, degraus e, no 12K, retalhos) sai inteiro e entra o da biblioteca no tom de antes, no retângulo do PDF. "CORRIJA AS FOLHAS DE VIDRO PARA SE ENCONTRAREM, CORRIJA O CONTORNO DA FLOREIRA E NÃO DEIXE AS PLANTAS VERDES PASSAREM PELAS JANELAS": a floreira no retângulo do PDF entre as janelas, com as plantas dentro da caixa (`floreira_caixa_casaa_1211.py`, a caixa comprida pelo miolo sem achatar as plantas), e a janela do banho redesenhada pelo PDF (três folhas de correr escalonadas que se encontram nos montantes); depois ("PODE APLICAR UMA SOLEIRA PARA AS JANELAS A DIREITA DA FLOREIRA. O TOM DE PAREDE NÃO PODE SER"), o vão dessa janela com a soleira das portas do 1º Pavimento (Bege Bahia, faces em cinza fino), sem o cinza de parede (`renders/POE642_CasaA_PH_1Pavimento_1211_soleira_janela_floreira_antes_depois.jpg`). E "PODE APLICAR NOS TAPETES DAS SUÍTES 1 E 3": os tapetes das suítes 1 e 3 refeitos inteiros como o da suíte 2 (`renders/POE642_CasaA_PH_1Pavimento_1211_tapetes_suites_1_3_antes_depois.jpg`). Casa B, Subsolo (13/11, "COLOQUE O S ABAIXO DA SETA"): o S sob a seta da escada que sobe para o jardim, como no Subsolo da Casa A (`pedidos_subsolo_casab_1211.letra_sb`; no 12K, A na Inter e B na Kalam, sobre a saída do Topaz ecd1a9e8 baixada de novo); final, 12K A e B, prancha, PDF da Casa B e book refeitos (`POE642_CasaB/renders/POE642_CasaB_PH_Subsolo_1311_letra_escada_antes_depois.jpg`). Depois ("VAMOS REVISAR OS MOBILIÁRIOS DO SUBSOLO DA CASA B"): a proposta de troca pela biblioteca (só a proposta, para o OK): `POE642_CasaB/renders/POE642_CasaB_PH_Subsolo_1311_proposta_biblioteca_{1,2}.jpg` (sauna: banco reto travertino; BH sauna: cuba esculpida travertino, bacia Carrara branca ou marrom, chuveiro quadrado de parede desenhado; ducha do deck: chuveiro quadrado de parede; BH serviço: cuba de serviço no granito, bacia Monte Carlo, chuveiro redondo de parede; academia sem troca, os aparelhos já são os da Casa A). Com o "OK, PODE APLICAR AS RECOMENDADAS": instaladas (`POE642_CasaA/scripts/biblioteca_subsolo_casab_1311.py`): os bancos retos de travertino na sauna, a cuba esculpida no granito e a bacia Carrara branca no BH sauna, a bancada e a cuba de serviço e a bacia Monte Carlo no BH serviço, os chuveiros desenhados (quadrado na ducha do deck e ao lado da sauna, redondo ao lado do BH serviço); no 12K, as peças entram pela final ampliada e nítidas do PNG (`pecas_12k`). Final, 12K A e B, prancha, PDF da Casa B e book refeitos; antes e depois em `POE642_CasaB/renders/POE642_CasaB_PH_Subsolo_1311_<trecho>_antes_depois.jpg`. Depois ("ALINHE OS RÓTULOS", as duas fileiras): os rótulos de cada fileira com o meio na mesma linha (GARAGEM, BH SERVIÇO e DEPÓSITO em y 393; DUCHA, SAUNA, CIRCULAÇÃO, BH SAUNA e ACADEMIA em y 675; a CIRCULAÇÃO de cima, acima do vidro, não cabe na linha do BH SERVIÇO e fica no espaço dela); refeito desde a final de 21fa118 com a biblioteca de novo por cima (`POE642_CasaB/renders/POE642_CasaB_PH_Subsolo_1311_rotulos_alinhados_antes_depois.jpg`). E "CORRIJA O PISO AO INCLUIR NOVO CHUVEIRO": na ducha do deck, o chuveiro antigo não é mais desenhado no passo do deck e o novo entra direto sobre o deck do gerador (as réguas contínuas, sem o remendo copiado do lado) (`POE642_CasaB/renders/POE642_CasaB_PH_Subsolo_1311_deck_chuveiro_antes_depois.jpg`). E ("VOCÊ TROCOU AS BICICLETAS E ESTEIRAS?", "E O SUPINO? QUERO QUE TROQUE, MANTENDO A BOLA"): os aparelhos da academia eram os copiados da final da Casa A de 12/11, ainda os do render; trocados pelos da biblioteca no tamanho da Casa A (2 esteiras `esteira-a`, 1,76 x 0,77 m; 2 bicicletas `bicicleta-b`, 1,23 x 0,51 m; supino `banco-supino`, 1,60 x 2,04 m, espelhado com a barra à direita, como no PDF), cada um no meio do símbolo do PDF da Casa B, o vinílico refeito com as mesmas réguas por baixo dos antigos; a bola, o armário e o rótulo ACADEMIA sem mudar (`biblioteca_subsolo_casab_1311.academia`; `POE642_CasaB/renders/POE642_CasaB_PH_Subsolo_1311_academia_antes_depois.jpg`; final, 12K A e B, prancha, PDF da Casa B e book refeitos). Casa B, Térreo (13/11, "VAMOS REVISAR OS MOBILIÁRIOS DO TÉRREO DA CASA B E REALIZAR AS ALTERAÇÕES FEITAS NA CASA A LISTADAS ACIMA"): a proposta do mobiliário (`POE642_CasaB/renders/POE642_CasaB_PH_Terreo_1311_proposta_biblioteca_{1,2,3}.jpg`; as camas de 12/11 ficam, a pedido, com os tapetes refeitos e o contorno retocado); as regras da Casa A aplicadas (`POE642_CasaA/scripts/regras_terreo_casab_1311.py`): o D sob as setas das 3 escadas, os 2 shafts com o X cinza fino, os 10 chuveiros desenhados em planta, as paredes retas; final, 12K A e B (sem IA nova), prancha, PDF da Casa B e book refeitos. Pendentes: as esquadrias pretas (prévia antes, por causa dos brises de bronze das suítes), os tapetes e o contorno das camas, e as peças geradas no Higgsfield (geladeira, recamier com mais glamour, banco estofado do closet, cortina), à espera da escolha (`POE642_CasaB/renders/POE642_CasaB_PH_Terreo_1311_pecas_higgsfield.jpg`). Depois (13/11, no mesmo `regras_terreo_casab_1311.py`): as esquadrias pretas só no contorno ("FAÇA APENAS O CONTORNO DA ESQUADRIA EM PRETO"), os tapetes das suítes refeitos com o contorno das camas limpo, as peças do Higgsfield escolhidas ("G2, R7, B1, C4"; o recamier trocado pelo R11, na medida do original), o jardim de inverno com um X só e as folhas de baixo encostadas, os rótulos SUÍTE 1/2 e CIRCULAÇÃO/SUÍTE 3 em grade. Depois, as 15 decisões do mobiliário, uma a uma, instaladas com as peças e as convenções da Casa A (`MOBILIARIO_TB`, `mobiliario`): criados com abajur nas 4 suítes, bancada dupla esculpida e bacias Carrara no banho master, cuba esculpida de travertino e bacia Carrara nos banhos 1 a 3, cuba esculpida de poros e bacia marrom no lavabo, bacias marrons e cubas esculpidas no lavatório gourmet, só a louça da cuba e a bacia Monte Carlo nos BH serviço e motorista ("A BANCADA DO BH. MOTORISTA É MARROM TABACO"), cooktops de 4 bocas (o resto do de 5 vira bancada), cubas e tanques Franke, a cuba com misturador e a grelha da gourmet; e a cadeira de escritório nas 3 escrivaninhas ("FALTOU A CADEIRA DE ESCRITORIO NAS ESCRIVANINHAS"), 1/3 por baixo da mesa. Corrigido junto: na final entregue em ca1ed82 os 4 rótulos em grade saíram em dobro (a 2ª rodada lia os desvios já movidos e não tirava o de antes); agora o desvio de partida vem dos dados do `ANTES_COMMIT`. Depois, a 2ª etapa ("PODE FAZER A 2ª ETAPA"): a sala íntima com o conjunto da Casa A (tapete, sofá em L A, mesas laterais redondas, poltrona A; a mesa de centro e a quadrada ficam; o PDF tem uma poltrona só, a proposta dizia 2), as 10 cadeiras oliva no jantar (a mesa e o aparador ficam), as espreguiçadeiras A na prainha e as 5 banquetas B na bancada gourmet (o PDF desenha 4; ficaram as 5 de hoje), com o piso refeito por baixo das peças de antes. Depois ("PÕE UM BANCO ESTOFADO, COMO SE FOSSE UM PUFF NA FRENTE DA POLTRONA"): o retângulo do PDF na frente da poltrona, que o render fez de mesa de madeira, virou o pufe estofado da Casa A. E ("TROQUE O TOM DA MESA DE CENTRO PARA UM TOM QUENTE"): a mesa de centro no caramelo da madeira das bancadas, com o veio. Casa C (13/11, "Vamos para biblioteca da casa C"): a proposta de troca pela biblioteca, só a proposta, para o OK (`POE642_CasaC/renders/POE642_CasaC_PH_Subsolo_1311_proposta_biblioteca_1.jpg` e `POE642_CasaC_PH_Terreo_1311_proposta_biblioteca_{1,2,3}.jpg`): sauna, BH academia e academia no Subsolo; no Térreo, suítes e banhos, sala TV, estar, jantar, varanda gourmet e sala de almoço, escritório, gourmet e cozinha, serviço, quarto externo e lavabos, com as escolhas da Casa A e as decisões da Casa B marcadas; as camas ficam para decidir (a da Casa A, o modelo da Casa B ou como estão); depois ("Adicione a cortina"), a seção das cortinas: a de linho em ondas da Casa B (C4) no lugar das franzidas, em todas as janelas com trilho no PDF. Camas ("Vamos de camas da casa A com variações de tom de roupa de cama e pezeiras"): as da biblioteca da Casa A (king A, casal A, solteiro A), cada quarto com um tom de roupa de cama e uma peseira atravessada nos pés, 2 opções por quarto (`POE642_CasaC/renders/POE642_CasaC_PH_Terreo_1311_proposta_camas.jpg`; a roupa tingida pela mediana, com a trama e a luz do PNG; a peseira com a trama mais marcada, a barra e a sombra curta; na master, as almofadas no tom da peseira); depois ("Acrescenta travesseiro extra"; "Mantém tom leve na peneira ou colcha decorativa"): o travesseiro extra na frente (o limpo da cama de casal A, no tom do enfeite) e, por quarto, A com a peseira em tom leve ou B com a colcha decorativa matelassê da metade para os pés. O usuário: "Escolha A" (a peseira leve nos 5 quartos), "Ok" (a proposta toda, com as cortinas) e "A manta seria posta em v" e, com a foto de referência, "Assim": a manta de tricô grosso dobrada em triângulo, a dobra atravessando a cama e a ponta para os pés, no tom leve de cada quarto (`POE642_CasaC/renders/POE642_CasaC_PH_Terreo_1311_camas_escolhidas.jpg`). Depois (com outra foto de referência, "Não ficou bom a manta assim não. Ela fica caída"): a manta jogada, amontoada solta sobre os pés, com as dobras e a borda de cima enrolada, caindo pela beirada do pé e de um lado (em planta, a faixa estreita além do colchão com as ondas das pregas) e a sombra no piso, no mesmo tom leve de cada quarto; os pontos do tricô do mesmo tamanho nas camas king, casal e solteiro (`POE642_CasaA/scripts/manta_caida_casac_1311.py`, com `camas_casac_1311.py` e `camas_escolhidas_casac_1311.py`). O PNG da cama volta com a margem `pad` igual nos 4 lados (o centro não muda; na instalação, a medida da cama é o PNG menos 2 x pad); a queda vai para o lado livre do quarto. Depois ("Só use as mantas de tricô nas camas de casal. Nas camas de solteiro só pezeira"): a manta de tricô caída só na king da suíte master e nas de casal dos quartos 1 e 3; nas de solteiro (as 2 do quarto 2 e a do quarto externo), só a peseira leve da opção A (palha; cinza-claro), com o travesseiro extra no mesmo tom; todas com a mesma margem `pad`. Falta, para instalar: os PDFs da Casa C (Subsolo e Térreo), que não estão no repositório; o conector do Drive estava fora do ar. E ("ESPREGUIÇADEIRA DE MADEIRA DENTRO DA ÁGUA, DA PRAINHA. NÃO SEI SE FAZ MUITO SENTIDO"): o usuário escolheu gerar no Higgsfield uma espreguiçadeira de resina/polietileno própria para a água (4 variantes, para escolher); até lá a prainha fica com a de madeira. Com o Higgsfield de volta (13/11, 14:45), as 4 variantes geradas (gpt_image_2, 21:9, 2k; jobs 10b91395, fe5291b8, 8afe6533, 2e2ef5cd; as saídas fora do git) e a folha para a escolha em `POE642_CasaB/renders/POE642_CasaB_PH_Terreo_1311_espreguicadeira_resina_variantes.jpg` (E1 a E4); na instalação, a escolhida no comprimento do retângulo do PDF, sem deformar. Final, 12K A e B, prancha, PDF da Casa A e book refeitos; antes e depois em `renders/POE642_CasaA_PH_1Pavimento_1211_{chuveiros,tapete_suite_2,floreira_janela}_antes_depois.jpg`. Final, 12K A e B (sem IA nova), prancha, PDF da Casa A e book refeitos; antes e depois (contra a final de 2c1c21d) em `renders/POE642_CasaA_PH_Terreo_1211c_<pedido>_antes_depois.jpg`. Regras novas no `POE642_REGRAS.md` (seção 8).
